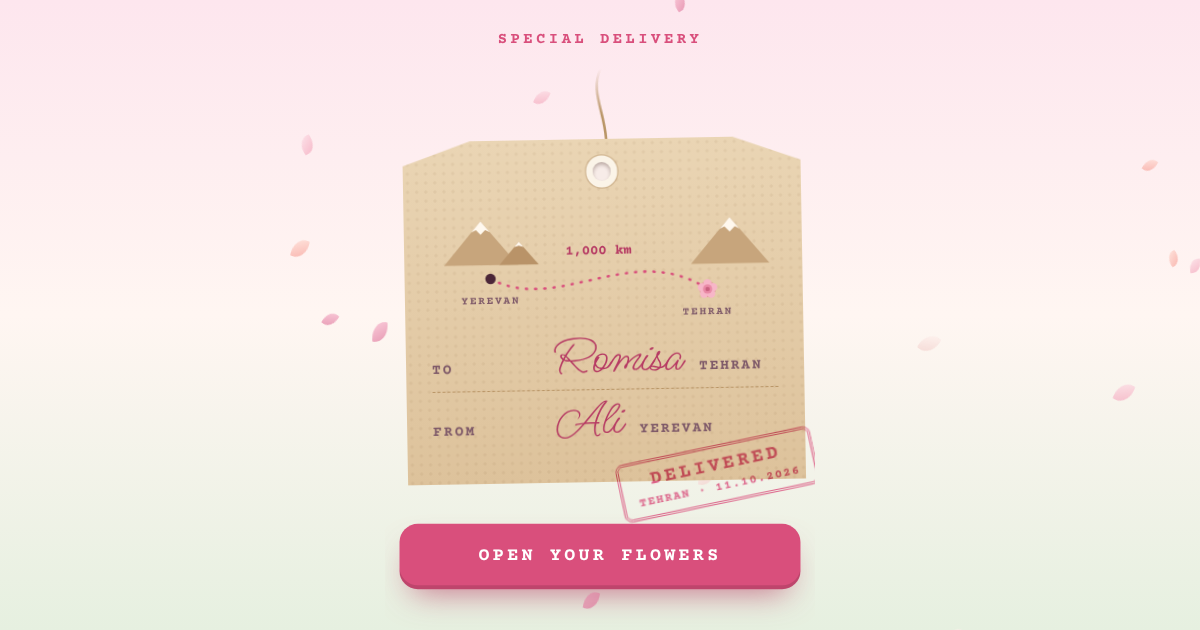
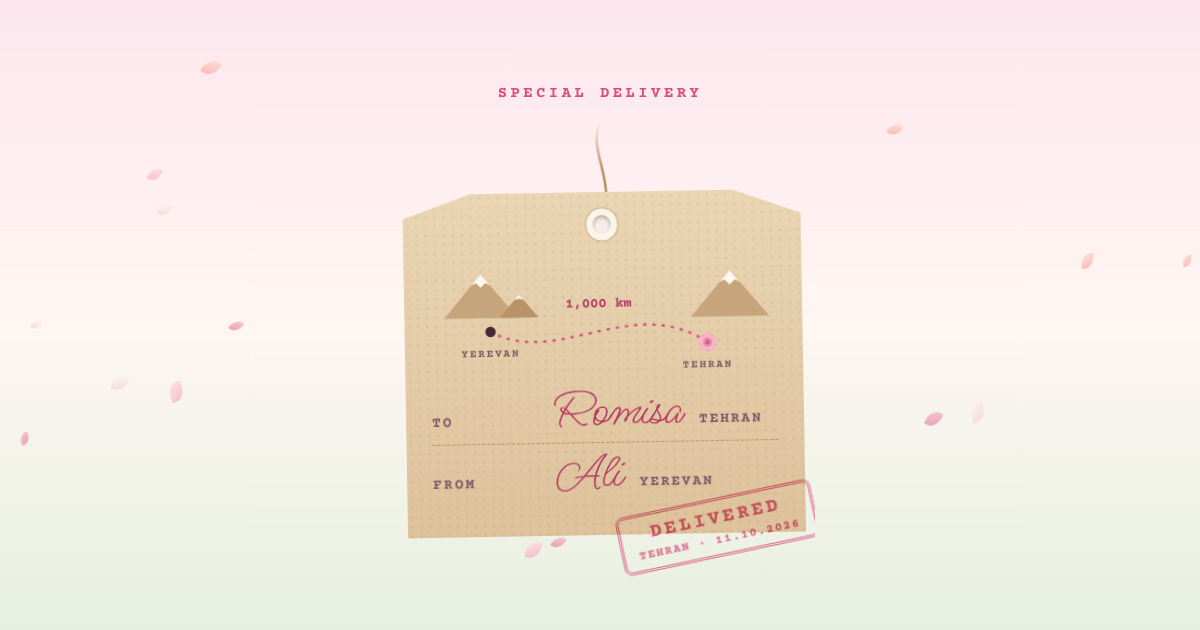
Keep the link preview spoiler-free
Claude-Session: https://claude.ai/code/session_013VPpSQ4e52H16YVvi6Vap3

diff --git a/index.html b/index.html
@@ -3,11 +3,11 @@
 <head>
 <meta charset="utf-8">
 <meta name="viewport" content="width=device-width,initial-scale=1,viewport-fit=cover">
-<title>Peonies for Romisa</title>
-<meta name="description" content="A special delivery from Yerevan.">
+<title>Special delivery for Romisa</title>
+<meta name="description" content="From Yerevan, 1,000 km away.">
 <meta property="og:type" content="website">
-<meta property="og:title" content="Peonies for Romisa">
-<meta property="og:description" content="A special delivery from Yerevan.">
+<meta property="og:title" content="Special delivery for Romisa">
+<meta property="og:description" content="From Yerevan, 1,000 km away.">
 <meta property="og:url" content="https://alirstm.github.io/peonies/">
 <meta property="og:image" content="https://alirstm.github.io/peonies/preview.png">
 <meta property="og:image:width" content="1200">
